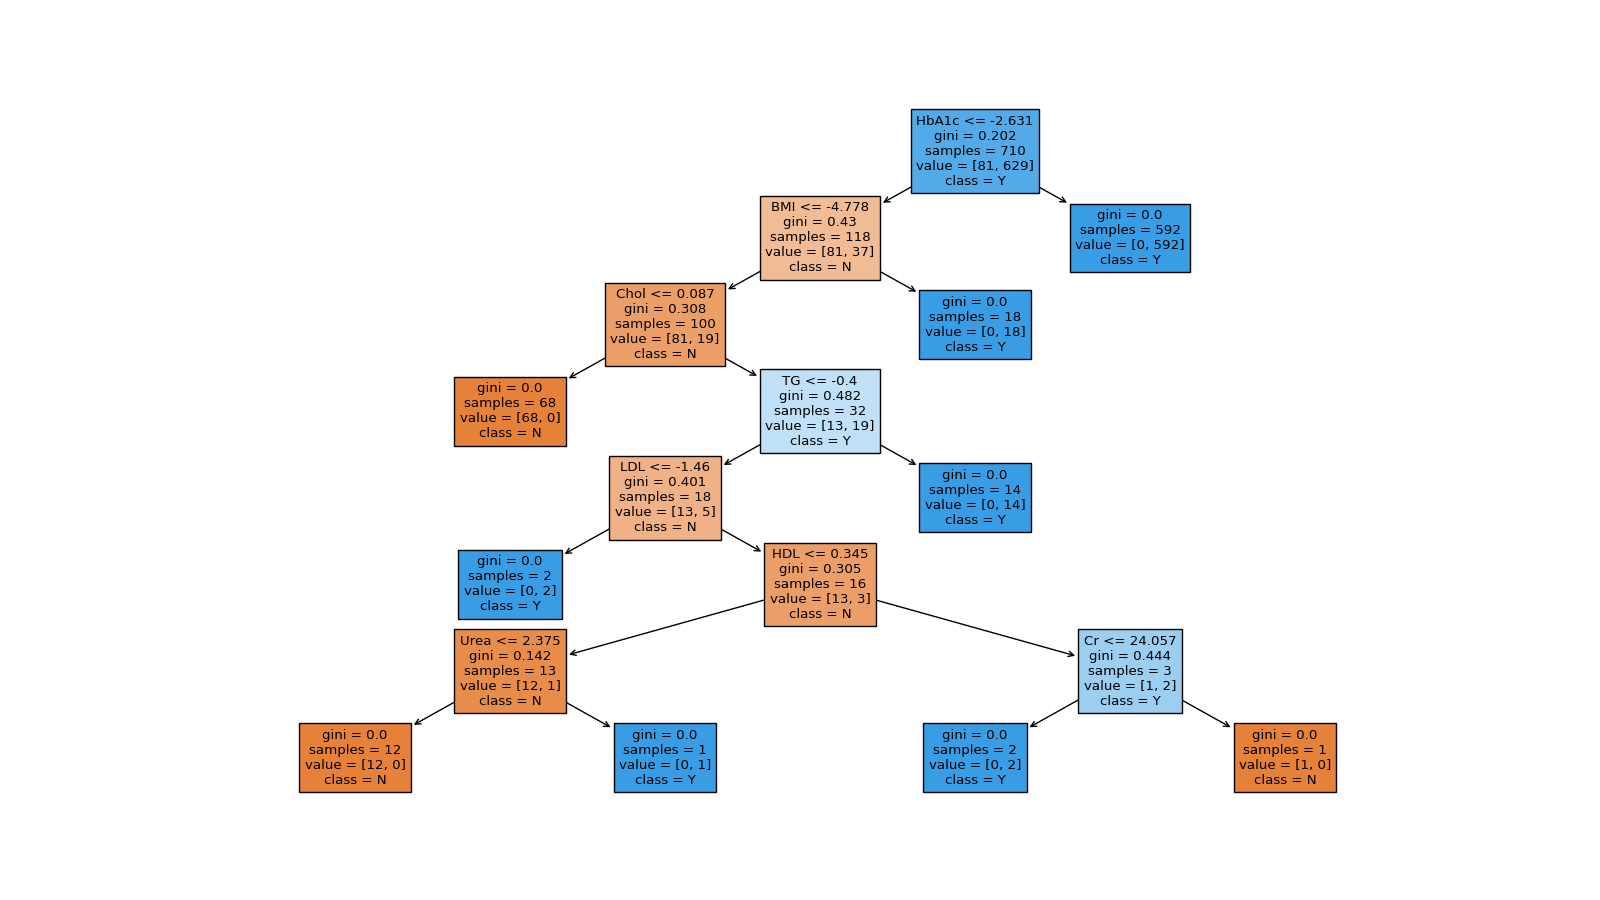
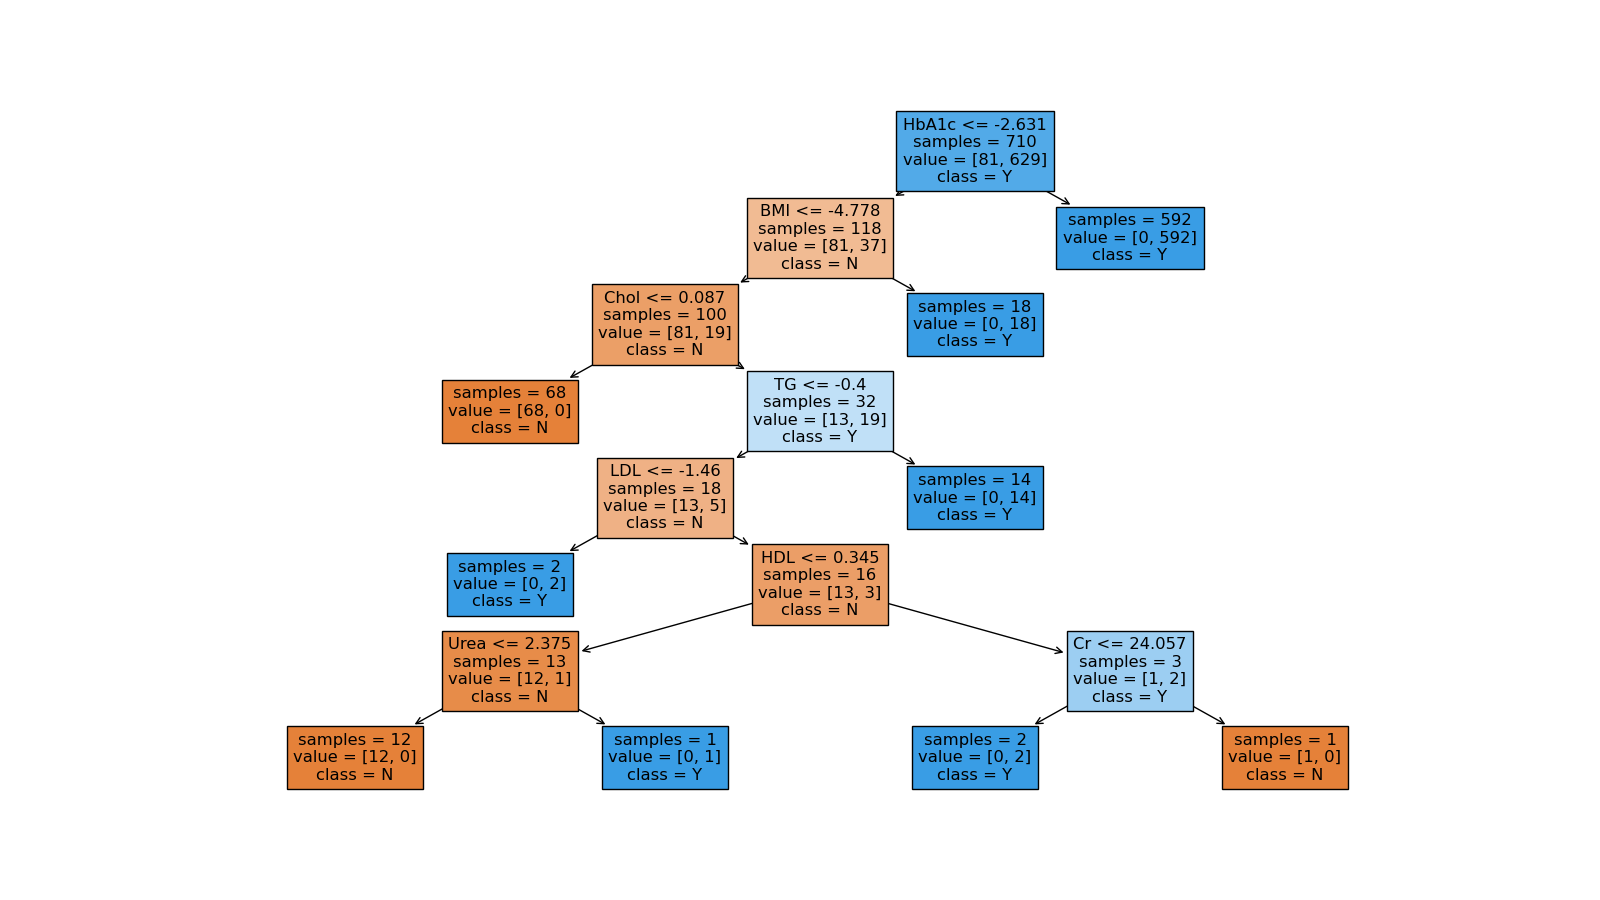
Added confusion matrices and roc curves

diff --git a/Models/Decision_Tree.py b/Models/Decision_Tree.py
@@ -4,7 +4,7 @@ import numpy as np
 from sklearn.tree import DecisionTreeClassifier, plot_tree 
 from sklearn.ensemble import RandomForestClassifier
 from sklearn.model_selection import train_test_split, cross_validate, cross_val_score
-from sklearn.metrics import plot_roc_curve, confusion_matrix
+from sklearn.metrics import plot_roc_curve, confusion_matrix, RocCurveDisplay
 
 #Read data and clean
 diabetes = pd.read_csv(r'C:\Users\hussi\IRC\project\Diabetes-Squad\EDA\Mendeley_normalised.csv')
@@ -29,7 +29,8 @@ fig = plt.figure(figsize=(16,9))
 _ = plot_tree(tree, 
                    feature_names=['AGE','Urea','Cr','HbA1c','Chol','TG','HDL','LDL','VLDL','BMI','Male','Female'],  
                    class_names=['N','Y'],
-                   filled=True)
+                   filled=True,
+                   impurity=False)
 fig.savefig("decision_tree.png")
 
 #Random Forest
@@ -41,3 +42,20 @@ print("Decision Tree mean =", np.mean(cross_val_score(tree,X_test,y_test)))
 print("Random Forest mean =", np.mean(cross_val_score(rf,X_test,y_test)))
 #Decision Tree mean = 0.9958333333333332
 #Random Forest mean = 0.9830673758865249
+
+y_pred1 = tree.predict(X_test)
+y_pred2 = rf.predict(X_test)
+
+print(confusion_matrix(y_test, y_pred1))
+print(confusion_matrix(y_test, y_pred2))
+#Decision tree
+#[[ 22   0]
+# [  0 215]]
+#Random Forest
+#[[ 21   1]
+# [  0 215]]
+
+
+RocCurveDisplay.from_estimator(tree, X_test, y_test)
+RocCurveDisplay.from_estimator(rf, X_test, y_test)
+#plt.show()
